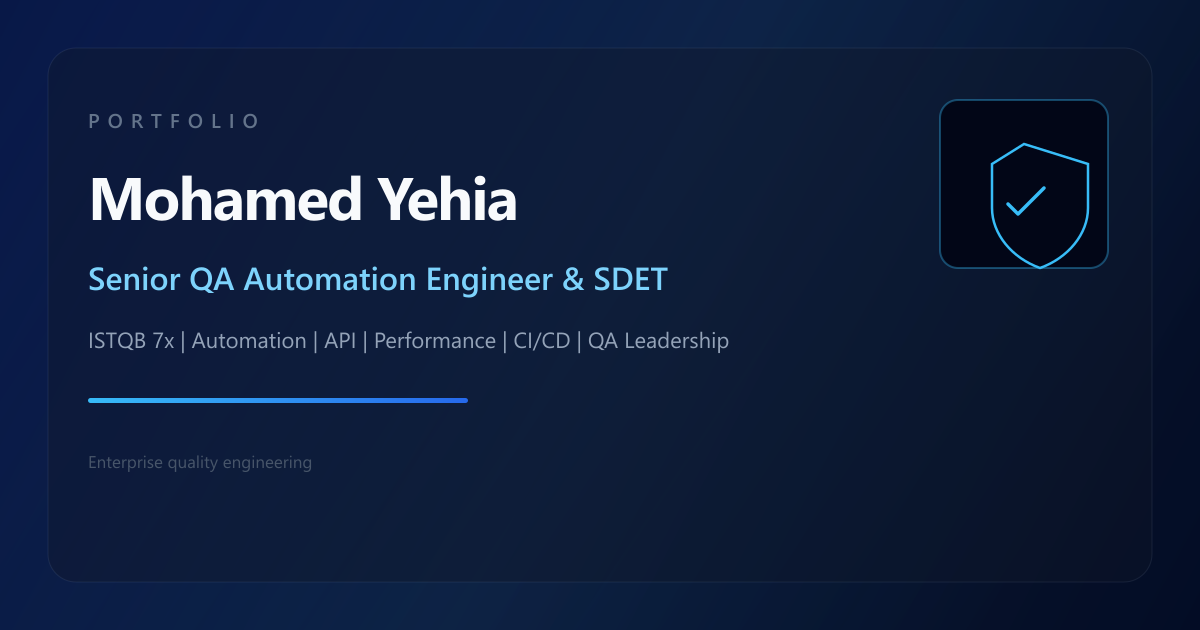
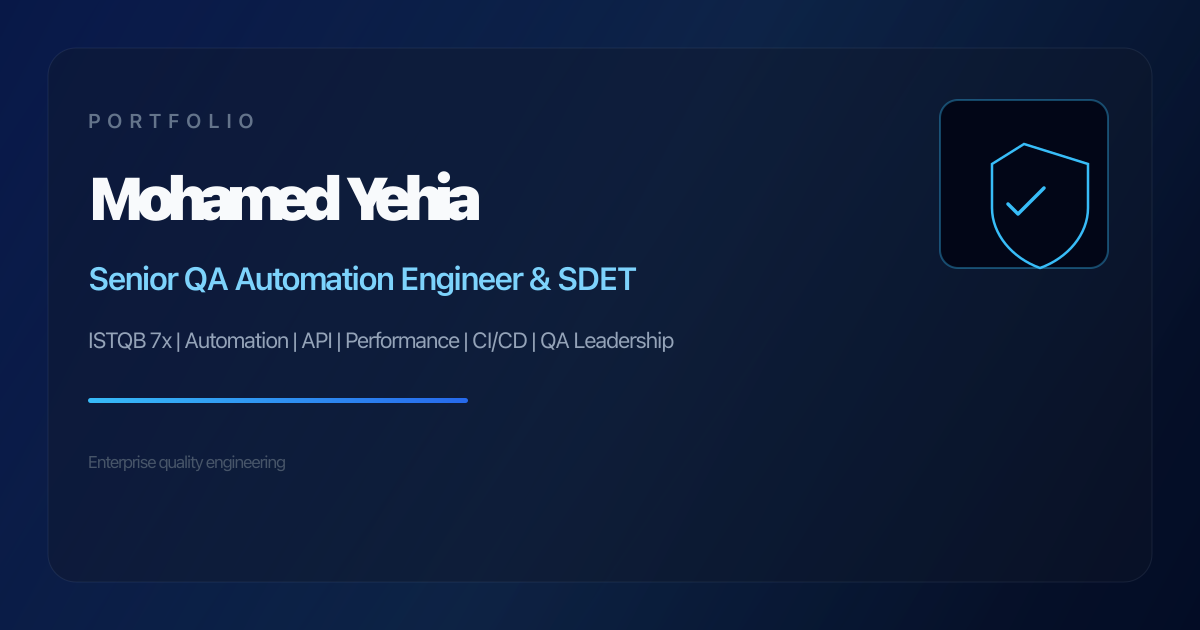
Update

diff --git a/src/components/Contact.jsx b/src/components/Contact.jsx
@@ -225,26 +225,26 @@ function Contact() {
   };
 
   return (
-    <section id="contact" className="section-wrapper pb-28">
+    <section id="contact" className="section-wrapper overflow-x-clip pb-24 max-[480px]:pb-20 sm:pb-28">
       <SectionHeading
         eyebrow="Contact"
         title="Let's talk about your next quality hire"
         subtitle="Senior QA automation, squad leadership, and enterprise test strategy—available for selective roles and advisory conversations."
       />
 
-      <p className="-mt-6 mb-10 max-w-3xl text-sm font-medium text-slate-600 dark:text-slate-400 sm:text-base">
-        <span className="rounded-full border border-slate-300/80 bg-white/60 px-3 py-1 dark:border-slate-600/60 dark:bg-slate-900/50">
+      <p className="-mt-6 mb-8 max-w-3xl px-0 text-sm font-medium sm:mb-10 sm:text-base">
+        <span className="block w-full max-w-full rounded-2xl border border-slate-300/80 bg-white/60 px-3.5 py-2.5 text-center text-xs leading-snug text-slate-600 text-balance [overflow-wrap:anywhere] dark:border-slate-600/60 dark:bg-slate-900/50 dark:text-slate-300 sm:inline-block sm:w-auto sm:max-w-xl sm:rounded-full sm:px-3 sm:py-1.5 sm:text-left sm:text-sm">
           Based in Egypt · Open to remote &amp; GCC opportunities
         </span>
       </p>
 
-      <div className="grid gap-8 lg:grid-cols-2 lg:gap-10">
+      <div className="grid min-w-0 gap-6 sm:gap-8 lg:grid-cols-2 lg:gap-10">
         <motion.div
           initial={{ opacity: 0, x: -20 }}
           whileInView={{ opacity: 1, x: 0 }}
           viewport={{ once: false, amount: 0.2 }}
           transition={{ duration: 0.45, ease: "easeOut" }}
-          className="flex flex-col gap-6"
+          className="flex min-w-0 flex-col gap-5 sm:gap-6"
         >
           <button
             type="button"
@@ -255,25 +255,25 @@ function Contact() {
             Schedule a Call
           </button>
 
-          <div className="glass-card space-y-1 p-6">
+          <div className="glass-card space-y-1 p-4 sm:p-6">
             <p className="mb-4 text-xs font-semibold uppercase tracking-[0.2em] text-brand-600 dark:text-brand-300">
               Direct channels
             </p>
             <a
               href="mailto:mohamedy.selim14@gmail.com"
-              className="flex items-center gap-3 rounded-lg py-2 text-slate-700 transition hover:bg-slate-100/80 hover:text-brand-600 dark:text-slate-300 dark:hover:bg-slate-800/50 dark:hover:text-brand-300"
+              className="flex min-w-0 items-start gap-3 rounded-lg py-2 text-slate-700 transition hover:bg-slate-100/80 hover:text-brand-600 dark:text-slate-300 dark:hover:bg-slate-800/50 dark:hover:text-brand-300 sm:items-center"
             >
-              <FiMail className="shrink-0" aria-hidden="true" />
-              mohamedy.selim14@gmail.com
+              <FiMail className="mt-0.5 shrink-0 sm:mt-0" aria-hidden="true" />
+              <span className="min-w-0 break-words [overflow-wrap:anywhere]">mohamedy.selim14@gmail.com</span>
             </a>
             <a
               href="https://linkedin.com/in/mohamed-yehia-selim"
               target="_blank"
               rel="noopener noreferrer"
-              className="flex items-center gap-3 rounded-lg py-2 text-slate-700 transition hover:bg-slate-100/80 hover:text-brand-600 dark:text-slate-300 dark:hover:bg-slate-800/50 dark:hover:text-brand-300"
+              className="flex min-w-0 items-start gap-3 rounded-lg py-2 text-slate-700 transition hover:bg-slate-100/80 hover:text-brand-600 dark:text-slate-300 dark:hover:bg-slate-800/50 dark:hover:text-brand-300 sm:items-center"
             >
-              <FiLinkedin className="shrink-0" aria-hidden="true" />
-              linkedin.com/in/mohamed-yehia-selim
+              <FiLinkedin className="mt-0.5 shrink-0 sm:mt-0" aria-hidden="true" />
+              <span className="min-w-0 break-words [overflow-wrap:anywhere]">linkedin.com/in/mohamed-yehia-selim</span>
             </a>
             <a
               href="tel:+201127624482"
@@ -300,7 +300,7 @@ function Contact() {
           viewport={{ once: false, amount: 0.2 }}
           transition={{ duration: 0.45, ease: "easeOut" }}
           onSubmit={handleSubmit}
-          className="glass-card space-y-5 border-slate-700/50 p-6 sm:p-7"
+          className="glass-card min-w-0 space-y-5 border-slate-700/50 p-4 sm:p-7"
           noValidate
         >
           <div>

diff --git a/src/components/Hero.jsx b/src/components/Hero.jsx
@@ -17,7 +17,7 @@ function Hero({ titles, heroStats }) {
   return (
     <section
       id="home"
-      className="relative overflow-hidden scroll-mt-20 pt-[5.25rem] sm:scroll-mt-24 sm:pt-24 lg:pt-24 xl:pt-24"
+      className="relative overflow-x-clip overflow-y-visible scroll-mt-20 pt-[4.75rem] max-[480px]:scroll-mt-[4.5rem] max-[480px]:pt-[4.5rem] sm:scroll-mt-24 sm:pt-24 lg:pt-24 xl:pt-24"
     >
       <div
         className="pointer-events-none absolute inset-0 -z-10 bg-[radial-gradient(ellipse_80%_50%_at_50%_-20%,rgba(41,136,255,0.22),transparent)] dark:bg-[radial-gradient(ellipse_80%_50%_at_50%_-20%,rgba(41,136,255,0.18),transparent)]"
@@ -32,9 +32,9 @@ function Hero({ titles, heroStats }) {
         aria-hidden="true"
       />
 
-      <div className="mx-auto max-w-6xl px-4 pb-14 pt-0 sm:px-6 sm:pb-16 lg:px-8 lg:pb-20 xl:pb-24">
-        <div className="grid items-center gap-10 sm:gap-10 lg:grid-cols-[minmax(0,1.12fr)_minmax(0,0.88fr)] lg:gap-12 xl:gap-14">
-          <div className="order-2 max-w-3xl lg:order-1">
+      <div className="mx-auto max-w-6xl px-3 pb-12 pt-0 max-[480px]:px-3 sm:px-6 sm:pb-16 lg:px-8 lg:pb-20 xl:pb-24">
+        <div className="grid min-w-0 items-center gap-8 max-[480px]:gap-7 sm:gap-10 lg:grid-cols-[minmax(0,1.12fr)_minmax(0,0.88fr)] lg:gap-12 xl:gap-14">
+          <div className="order-2 min-w-0 max-w-3xl lg:order-1">
             <motion.p
               initial={{ opacity: 0, y: 16 }}
               animate={{ opacity: 1, y: 0 }}
@@ -47,7 +47,7 @@ function Hero({ titles, heroStats }) {
               initial={{ opacity: 0, y: 20 }}
               animate={{ opacity: 1, y: 0 }}
               transition={{ duration: 0.6, delay: 0.05, ease }}
-              className="text-4xl font-extrabold leading-[1.08] tracking-tight text-slate-900 dark:text-white sm:text-5xl lg:text-6xl xl:text-[3.35rem]"
+              className="max-[480px]:text-[clamp(1.85rem,6.5vw,2.25rem)] text-4xl font-extrabold leading-[1.08] tracking-tight text-slate-900 dark:text-white sm:text-5xl lg:text-6xl xl:text-[3.35rem]"
             >
               Mohamed Yehia
             </motion.h1>
@@ -110,7 +110,7 @@ function Hero({ titles, heroStats }) {
             initial={{ opacity: 0, scale: 0.94, y: 16 }}
             animate={{ opacity: 1, scale: 1, y: 0 }}
             transition={{ duration: 0.75, delay: 0.18, ease }}
-            className="order-1 mx-auto w-full max-w-[20rem] sm:max-w-sm lg:order-2 lg:max-w-none"
+            className="order-1 mx-auto w-full min-w-0 max-w-[18.5rem] max-[480px]:max-w-[min(100%,17.5rem)] sm:max-w-sm lg:order-2 lg:max-w-none"
           >
             <div className="relative">
               <div

diff --git a/src/components/Navbar.jsx b/src/components/Navbar.jsx
@@ -50,7 +50,7 @@ function Navbar({ navLinks, darkMode, onToggleTheme }) {
     <header
       className={`fixed left-0 right-0 top-0 z-50 border-b backdrop-blur-xl transition-[background-color,box-shadow,border-color] duration-300 ${headerClass}`}
     >
-      <nav className="mx-auto flex max-w-6xl items-center justify-between px-4 py-3.5 sm:px-6 sm:py-4 lg:px-8">
+      <nav className="mx-auto flex max-w-6xl items-center justify-between px-4 py-3.5 max-[480px]:px-3 max-[480px]:py-3 sm:px-6 sm:py-4 lg:px-8">
         <a href="#home" className="text-sm font-semibold uppercase tracking-[0.2em] text-brand-300">
           Mohamed Yehia
         </a>
@@ -109,7 +109,7 @@ function Navbar({ navLinks, darkMode, onToggleTheme }) {
             transition={{ duration: 0.28, ease: [0.25, 0.1, 0.25, 1] }}
             className="overflow-hidden border-t border-slate-300/80 bg-white/95 dark:border-slate-800 dark:bg-slate-950/95 md:hidden"
           >
-            <div className="mx-auto flex max-w-6xl flex-col px-4 py-3 sm:px-6">
+            <div className="mx-auto flex max-w-6xl flex-col px-4 py-3 max-[480px]:px-3 sm:px-6 sm:py-3.5">
               {navLinks.map((link, index) => {
                 const active = activeId === link.id;
                 return (
@@ -120,7 +120,7 @@ function Navbar({ navLinks, darkMode, onToggleTheme }) {
                     animate={{ opacity: 1, x: 0 }}
                     transition={{ delay: index * 0.04, duration: 0.22 }}
                     onClick={() => setOpen(false)}
-                    className={`rounded-lg px-3 py-2.5 text-sm font-medium ${
+                    className={`rounded-lg px-3 py-2.5 text-sm font-medium max-[480px]:px-2.5 max-[480px]:py-2.5 ${
                       active
                         ? "bg-brand-500/10 text-brand-600 dark:text-brand-300"
                         : "text-slate-700 hover:bg-slate-100 dark:text-slate-300 dark:hover:bg-slate-900"

diff --git a/src/components/FloatingScrollTop.jsx b/src/components/FloatingScrollTop.jsx
@@ -29,7 +29,7 @@ function FloatingScrollTop() {
           transition={{ duration: 0.25, ease: "easeOut" }}
           onClick={scrollUp}
           aria-label="Scroll back to top"
-          className="fixed bottom-6 left-6 z-[70] inline-flex h-14 w-14 items-center justify-center rounded-full border border-slate-400/40 bg-white/90 text-xl text-slate-800 shadow-lg backdrop-blur-sm transition hover:scale-105 hover:border-brand-400/50 hover:text-brand-600 focus-visible:outline focus-visible:outline-2 focus-visible:outline-offset-2 focus-visible:outline-brand-400 dark:border-slate-600/60 dark:bg-slate-900/90 dark:text-slate-100 dark:hover:border-brand-400/40 dark:hover:text-brand-300 max-[380px]:bottom-4 max-[380px]:left-4"
+          className="fixed bottom-[calc(1rem+env(safe-area-inset-bottom,0px))] left-[calc(0.75rem+env(safe-area-inset-left,0px))] z-[70] inline-flex h-12 w-12 items-center justify-center rounded-full border border-slate-400/40 bg-white/90 text-xl text-slate-800 shadow-lg backdrop-blur-sm transition hover:scale-105 hover:border-brand-400/50 hover:text-brand-600 focus-visible:outline focus-visible:outline-2 focus-visible:outline-offset-2 focus-visible:outline-brand-400 dark:border-slate-600/60 dark:bg-slate-900/90 dark:text-slate-100 dark:hover:border-brand-400/40 dark:hover:text-brand-300 max-[480px]:bottom-[calc(0.75rem+env(safe-area-inset-bottom,0px))] max-[480px]:left-3 sm:bottom-8 sm:left-8 sm:h-14 sm:w-14"
         >
           <FiChevronUp className="h-7 w-7" aria-hidden="true" />
         </motion.button>

diff --git a/src/components/FloatingQuickActions.jsx b/src/components/FloatingQuickActions.jsx
@@ -6,14 +6,14 @@ const MAILTO = "mailto:mohamedy.selim14@gmail.com";
 const WHATSAPP_URL = "https://wa.me/201127624482";
 
 const btn =
-  "inline-flex h-14 w-14 items-center justify-center rounded-full text-white shadow-lg transition hover:scale-105 focus-visible:outline focus-visible:outline-2 focus-visible:outline-offset-2";
+  "inline-flex h-12 w-12 shrink-0 items-center justify-center rounded-full text-white shadow-lg transition hover:scale-105 focus-visible:outline focus-visible:outline-2 focus-visible:outline-offset-2 sm:h-14 sm:w-14";
 
 function FloatingQuickActions() {
   const { openCalendly } = useCalendlyModal();
 
   return (
     <div
-      className="fixed bottom-6 right-6 z-[70] flex max-w-[83vw] flex-col-reverse gap-3 sm:bottom-8 sm:right-8 sm:max-w-none"
+      className="fixed bottom-[calc(1rem+env(safe-area-inset-bottom,0px))] right-[calc(0.75rem+env(safe-area-inset-right,0px))] z-[70] flex max-w-[calc(100vw-1.5rem)] flex-col-reverse gap-2 max-[480px]:bottom-[calc(0.75rem+env(safe-area-inset-bottom,0px))] max-[480px]:right-3 max-[480px]:gap-1.5 sm:bottom-8 sm:right-8 sm:max-w-none sm:gap-3"
       role="navigation"
       aria-label="Quick contact actions"
     >

diff --git a/src/components/HeroStats.jsx b/src/components/HeroStats.jsx
@@ -23,14 +23,14 @@ function HeroStats({ stats }) {
       variants={container}
       initial="hidden"
       animate="show"
-      className="mt-8 grid grid-cols-2 gap-3 sm:mt-10 sm:gap-4 lg:mt-10 lg:grid-cols-4"
+      className="mt-8 grid min-w-0 grid-cols-2 gap-2.5 sm:mt-10 sm:gap-4 lg:mt-10 lg:grid-cols-4"
       aria-label="Career highlights"
     >
       {stats.map((stat) => (
         <motion.div
           key={stat.label}
           variants={item}
-          className={`relative overflow-hidden rounded-2xl border px-4 py-4 shadow-[inset_0_1px_0_0_rgba(255,255,255,0.06)] backdrop-blur-md border-slate-300/70 bg-white/75 dark:border-slate-700/50 dark:bg-slate-900/55 ${
+          className={`relative min-w-0 overflow-hidden rounded-2xl border px-3 py-3.5 shadow-[inset_0_1px_0_0_rgba(255,255,255,0.06)] backdrop-blur-md border-slate-300/70 bg-white/75 dark:border-slate-700/50 dark:bg-slate-900/55 sm:px-4 sm:py-4 ${
             stat.wide ? "col-span-2 lg:col-span-1" : ""
           }`}
         >

diff --git a/src/index.css b/src/index.css
@@ -21,6 +21,7 @@ html {
 }
 
 body {
+  overflow-x: clip;
   background:
     radial-gradient(circle at 10% 12%, var(--bg-overlay-a) 0%, rgba(2, 6, 23, 0) 40%),
     radial-gradient(circle at 90% 0%, var(--bg-overlay-b) 0%, rgba(2, 6, 23, 0) 34%),
@@ -32,7 +33,7 @@ body {
 
 @layer components {
   .section-wrapper {
-    @apply mx-auto max-w-6xl px-4 py-20 sm:px-6 sm:py-24 lg:px-8 lg:py-28;
+    @apply mx-auto max-w-6xl px-4 py-20 max-[480px]:px-3 max-[480px]:py-16 sm:px-6 sm:py-24 lg:px-8 lg:py-28;
   }
 
   .glass-card {
